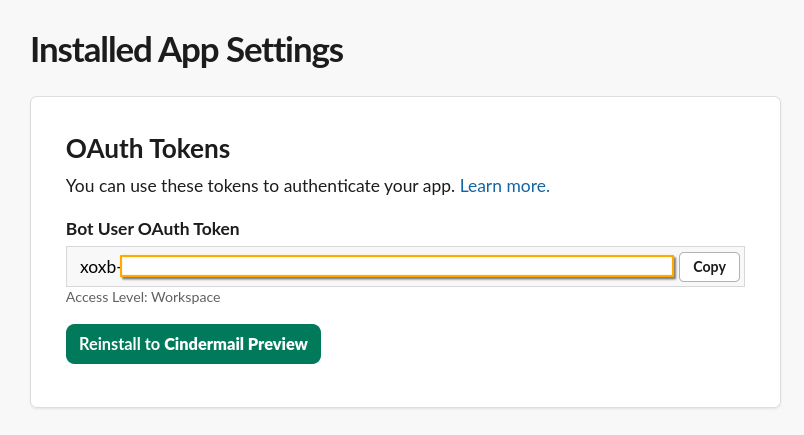
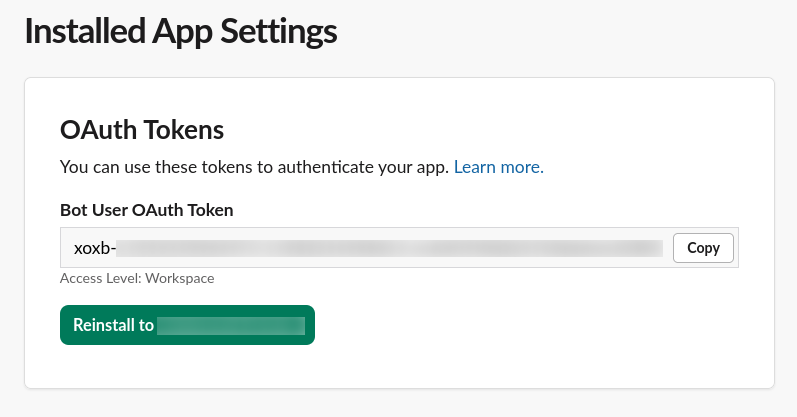
Embed screenshots in the Discord adapter doc, refresh Slack's
discord-adapter.md now matches slack-adapter.md's treatment: inline
screenshots at each step instead of text-only instructions. Credentials
checked before adding -- Application ID and Public Key are meant to be
public (Discord's own name for the latter says as much, it only ever
verifies a signature, never creates one), the actual Bot Token is
blurred.

Also swaps in redone Slack screenshots (install, OAuth token, signing
secret, and both delivery screenshots) with tighter redaction than the
first pass -- workspace name and creator are blurred now too, not just
the secrets themselves.

Changed region(s): [[0.0602, 0.2806, 0.9335, 0.8417], [0.0301, 0.0312, 0.4216, 0.1559], [0.0301, 0.2182, 0.0602, 0.2494]]

diff --git a/docs/discord-adapter.md b/docs/discord-adapter.md
@@ -13,11 +13,19 @@ If you deployed with the button, clone your fork now if you haven't. Registering
 
 At [discord.com/developers/applications](https://discord.com/developers/applications), create an application and give it a bot user under the Bot tab.
 
-Three values, from General Information and Bot:
+Two values on **General Information** — Application ID isn't secret, it's a public identifier; Public Key (Discord's own name for it) isn't either, it's only ever used to *verify* a signature, never to create one:
 
-- Bot token
-- Public key
-- Application ID
+![Discord's General Information page, with Application ID and Public Key both visible in plain text](images/discord-general-info.png)
+
+One value on the **Bot** tab, and this one actually is secret — Discord shows it exactly once, at creation or reset:
+
+![Discord's Bot page, with the Token field blurred and a "Reset Token" button next to it](images/discord-token.png)
+
+So, three values total:
+
+- Bot token (Bot tab)
+- Public key (General Information)
+- Application ID (General Information)
 
 ## 2. Give it those credentials
 
@@ -51,13 +59,25 @@ On General Information, set the Interactions Endpoint URL to your Worker's URL p
 https://<your-worker>.<your-subdomain>.workers.dev/interactions
 ```
 
+![The Interactions Endpoint URL field on Discord's General Information page, with the worker subdomain blurred and the path ending in /interactions](images/discord-interactions.png)
+
 Discord verifies it with a signed ping on save. A failure is almost always a `DISCORD_PUBLIC_KEY` that doesn't match the app's Verify Key, or a Worker that isn't deployed yet.
 
 ## 5. Try it
 
 Works installed to a server or to just your own account, both enabled by default. Install link is on the Installation tab.
 
-Run `/new`, send the address a test email, expect a DM within seconds.
+Run `/new`, Discord's own UI shows the structured options as you fill them in:
+
+![Discord's slash command autocomplete for /new, with expiry set to 10 and note set to "Discord Test"](images/discord-mint.png)
+
+The reply is ephemeral, visible only to you, wherever you ran it from:
+
+![A Discord message showing "used /new" followed by an ephemeral reply from the Cindermail app: "Your new disposable address: xovuqshztx@vsvn.net (Discord Test), Expires in 10 days.", with "Only you can see this" underneath](images/discord-reply.png)
+
+Send that address a test email and it arrives as a DM within seconds, regardless of where `/new` was run:
+
+![A Discord DM from the Cindermail app forwarding a received test email, with From, To, and Subject lines followed by the message body](images/discord-received.png)
 
 Mail always arrives as a DM even if you ran `/new` in a channel. Commands work anywhere the bot is; delivery only ever goes to the owner's DMs.
 
